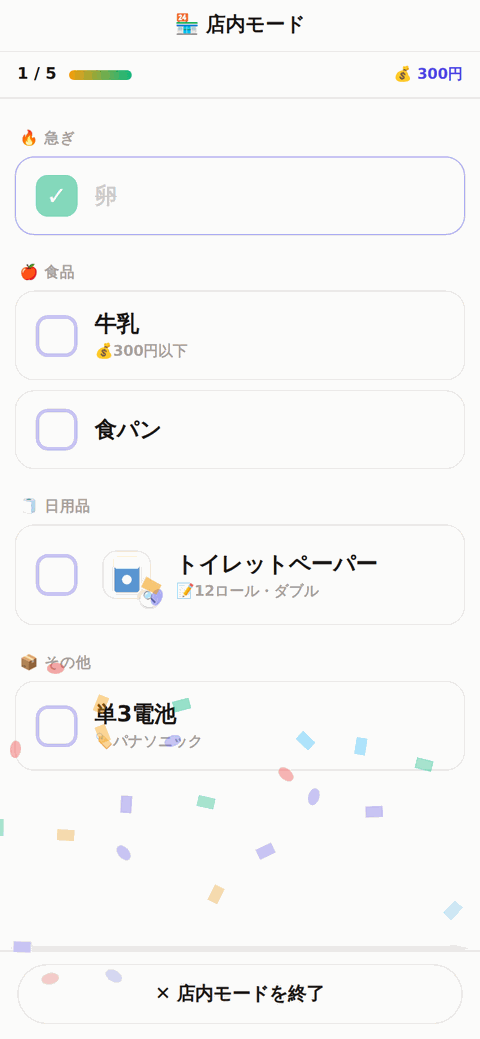
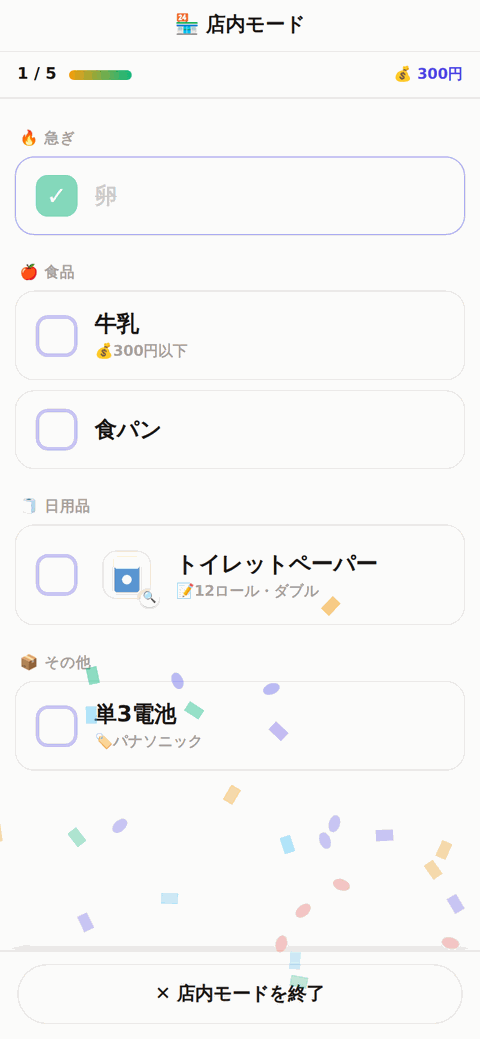
よく買うものをカード形式にし、写真を付けられるようにする
要望: 「よく買うものはカード形式にして絵をつけるプラス差し替えられるとかにしたいな」

- 行リスト（.shortcut-row）→ 写真を主役にしたカードグリッド（.shortcut-card）に
  作り直した（3列）。写真が無い項目はプレースホルダーのアイコンを出す
- 登録シート（元々あった写真欄）で選んだ写真を、今までは無視していたのを
  保存するようにした（uploadShortcutPhoto、Storage: families/{id}/shortcuts/{id}）
- 「✏ 編集」中はカードの写真をタップすると差し替えられる
  （replaceShortcutPhoto。カードごとに<input>を用意せず、共有の1つを
  使い回してどのカードが対象かをJS側の変数で覚える方式）
- openShortcutRegisterSheet() は resetSheetToAddMode() を使うようにし、
  他のモードで選んだ写真が紛れ込むのを防いだ（ついでに手書きのフィールド
  クリアの重複コードも削除）

DBルールの追加作業は不要（shortcuts は既存のサブツリー単位の書き込み権限で
photoUrl もそのままカバーされる。stocks の photoUrl と同じ扱い）。Storageの
ルールも families/{familyId}/{allPaths=**} で包括的に許可済みのため不要。

## テスト
shortcut-tab-test.mjs / shortcut-confirm-test.mjs をカード形式のセレクタに
更新し、写真の登録・編集モードでの差し替えを検証するチェックを追加。

回帰スイート20/20パス、docs-check OK、全ファイル構文チェック通過。
スクショ撮り直し（カード形式になったため）。
sw.js の CACHE を v50 に。デプロイ不要（DB/functionsの変更なし）。

diff --git a/app-requests.js b/app-requests.js
@@ -308,19 +308,12 @@ function updateShortcutVisibility() {
   wrap.style.display = state.activeTab === "requests" ? "flex" : "none";
 }
 function openShortcutRegisterSheet() {
+  // resetSheetToAddMode() で写真プレビュー等も含めて確実にクリーンな状態にしてから、
+  // ショートカット登録モードに上書きする（他のモードで選んだ写真が紛れ込むのを防ぐ）
+  resetSheetToAddMode();
   shortcutMode = true;
   editingRequestId = null;
   populateAssigneeSelect("");
-  // フィールドをクリア
-  $("new-name").value = "";
-  $("new-memo").value = "";
-  $("new-budget").value = "";
-  $("new-brand").value = "";
-  $("new-urgent").checked = false;
-  $("new-diff").value = "normal";
-  $("new-assignee").value = "";
-  setSelectedCategory(null);
-  $("new-cycle-days").value = "";
   $("new-cycle-wrap").style.display = "";
   // ショートカット登録モード UI
   document.querySelector("#sheet-add .sheet-title").textContent = "⭐ よく買うものを登録";
@@ -352,13 +345,40 @@ async function addShortcutFromSheet() {
   if (assignedTo) entry.assignedTo = assignedTo;
   if (selectedCategory) entry.category = selectedCategory;
   const ref = familyRef().child("shortcuts").push();
+  if (pendingReqPhoto) {
+    const url = await uploadShortcutPhoto(pendingReqPhoto, ref.key);
+    if (url) entry.photoUrl = url;
+  }
   if (!(await dbOp(ref.set(entry), "登録できませんでした"))) return;
   await ensureStockForShortcut(name, cycleDays);
   closeSheet();
   showToast(`⭐ 「${name}」をよく買うものに登録しました`);
 }
-// 誤操作防止: 削除×は「✏ 編集」モードの中だけに表示する
+async function uploadShortcutPhoto(file, shortcutId) {
+  showToast("写真をアップロード中...", { sound: false });
+  try {
+    return await uploadPhoto(file, `families/${state.familyId}/shortcuts/${shortcutId}`);
+  } catch (e) {
+    console.error("photo upload failed", e);
+    showToast("⚠ 写真だけアップロードできませんでした（内容は保存されます）");
+    return null;
+  }
+}
+// 編集モード中、カードの写真をタップして選び直した画像をアップロードし、
+// そのカードの photoUrl だけ差し替える（他の項目には影響しない）
+async function replaceShortcutPhoto(shortcutId, file) {
+  const s = state.shortcuts[shortcutId];
+  if (!s) return;
+  const url = await uploadShortcutPhoto(file, shortcutId);
+  if (!url) return;
+  if (!(await dbOp(familyRef().child("shortcuts/" + shortcutId + "/photoUrl").set(url), "写真を更新できませんでした"))) return;
+  showToast(`📷 「${s.name}」の写真を変更しました`, { sound: false });
+}
+// 誤操作防止: 削除×・写真の差し替えは「✏ 編集」モードの中だけに表示する
 let shortcutsEditMode = false;
+// 編集モードで写真タップ→ファイル選択の間、どのカードを対象にしたかを覚えておく
+// （カードごとに <input type=file> を用意せず、共有の1つを使い回すため）
+let shortcutPhotoTargetId = null;
 function renderShortcuts() {
   const chips = $("shortcut-chips");
   if (!chips) return;
@@ -378,18 +398,25 @@ function renderShortcuts() {
     chips.innerHTML = `<p class="shortcut-chips-empty">まだ登録がありません。＋ をタップして登録するか、リストの項目の ☆ から追加できます。</p>`;
   } else {
     // カテゴリ順（食品→日用品→その他→未分類）→ 名前順で並べ、カテゴリ見出しを付けて見やすく。
-    // 全件が未分類なら見出しは出さない。
+    // 全件が未分類なら見出しは出さない。カード形式なので、見出しごとに
+    // グリッドを区切る（グリッドをまたいだ列揃えは狙わない）。
     const sorted = entries.sort(([, a], [, b]) =>
       categoryOrder(a) - categoryOrder(b) || (a.name || "").localeCompare(b.name || "", "ja"));
     const anyCategorized = sorted.some(([, s]) => s.category && CATEGORY[s.category]);
     let html = "";
-    let curCat;
+    let curCat = null;
+    let gridOpen = false;
     sorted.forEach(([id, s]) => {
       const catKey = s.category && CATEGORY[s.category] ? s.category : "none";
       if (anyCategorized && catKey !== curCat) {
         curCat = catKey;
+        if (gridOpen) html += `</div>`;
         const hdr = catKey === "none" ? "📎 未分類" : `${CATEGORY[catKey].emoji} ${CATEGORY[catKey].label}`;
-        html += `<div class="shortcut-cat-hdr">${hdr}</div>`;
+        html += `<div class="shortcut-cat-hdr">${hdr}</div><div class="shortcut-card-grid">`;
+        gridOpen = true;
+      } else if (!gridOpen) {
+        html += `<div class="shortcut-card-grid">`;
+        gridOpen = true;
       }
       const hints = [];
       if (s.budget > 0) hints.push(`💰${Number(s.budget).toLocaleString()}円`);
@@ -398,36 +425,47 @@ function renderShortcuts() {
         const m = (state.family && state.family.members && state.family.members[s.assignedTo]);
         if (m) hints.push(`👤${escapeHtml(m.name || '')}`);
       }
-      const hintHtml = hints.length ? `<span class="shortcut-row-hints">${hints.join(' ')}</span>` : '';
+      const hintHtml = hints.length ? `<span class="shortcut-card-hints">${hints.join(' ')}</span>` : '';
       html += `
-      <button class="shortcut-row${shortcutsEditMode ? " editing" : ""}" data-sid="${id}" aria-label="${escapeHtml(s.name)}を買い物リストに追加">
-        <span class="shortcut-row-main">
-          <span class="shortcut-row-name">${s.urgent ? '🔥 ' : ''}${escapeHtml(s.name)}</span>
-          ${hintHtml}
+      <button class="shortcut-card${shortcutsEditMode ? " editing" : ""}" data-sid="${id}" aria-label="${escapeHtml(s.name)}を買い物リストに追加">
+        <span class="shortcut-card-photo"${shortcutsEditMode ? ` data-photo-edit="${id}" role="button" aria-label="${escapeHtml(s.name)}の写真を変更"` : ""}>
+          ${s.photoUrl
+            ? `<img src="${escapeHtml(s.photoUrl)}" alt="" loading="lazy" />`
+            : `<span class="shortcut-card-placeholder" aria-hidden="true">🛒</span>`}
+          ${s.urgent ? `<span class="shortcut-card-urgent" aria-hidden="true">🔥</span>` : ""}
+          ${shortcutsEditMode ? `<span class="shortcut-card-photo-hint" aria-hidden="true">📷</span>` : ""}
         </span>
-        ${shortcutsEditMode
-          ? `<span class="shortcut-row-del" data-del="${id}" role="button" aria-label="削除">×</span>`
-          : `<span class="shortcut-row-add" aria-hidden="true">＋</span>`}
+        <span class="shortcut-card-name">${escapeHtml(s.name)}</span>
+        ${hintHtml}
+        ${shortcutsEditMode ? `<span class="shortcut-card-del" data-del="${id}" role="button" aria-label="削除">×</span>` : ""}
       </button>`;
     });
+    if (gridOpen) html += `</div>`;
     chips.innerHTML = html;
   }
-  chips.querySelectorAll(".shortcut-row").forEach(row => {
-    row.addEventListener("click", (e) => {
-      if (e.target.closest(".shortcut-row-del")) return;
+  chips.querySelectorAll(".shortcut-card").forEach(card => {
+    card.addEventListener("click", (e) => {
+      if (e.target.closest(".shortcut-card-del") || e.target.closest("[data-photo-edit]")) return;
       if (shortcutsEditMode) return; // 編集中の誤タップで追加しない
-      const s = state.shortcuts[row.dataset.sid];
-      // 独立タブになって行数が増え、うっかり隣の行に触れて追加してしまいやすく
+      const s = state.shortcuts[card.dataset.sid];
+      // 独立タブになって項目数が増え、うっかり隣のカードに触れて追加してしまいやすく
       // なったため、確認をひとつ挟む（誤タップ防止）
       if (s && confirm(`「${s.name}」を買い物リストに追加しますか？`)) addFromShortcut(s);
     });
   });
-  chips.querySelectorAll(".shortcut-row-del").forEach(del => {
+  chips.querySelectorAll(".shortcut-card-del").forEach(del => {
     del.addEventListener("click", (e) => {
       e.stopPropagation();
       const s = state.shortcuts[del.dataset.del];
       if (s && !confirm(`「${s.name}」をよく買うものから削除しますか？`)) return;
       deleteShortcut(del.dataset.del);
+    });
+  });
+  chips.querySelectorAll("[data-photo-edit]").forEach(photo => {
+    photo.addEventListener("click", (e) => {
+      e.stopPropagation();
+      shortcutPhotoTargetId = photo.dataset.photoEdit;
+      $("shortcut-photo-replace-input").click();
     });
   });
 }

diff --git a/styles.css b/styles.css
@@ -403,16 +403,20 @@ button.icon-btn:hover:not(:disabled) { color: var(--c-urgent); background: var(-
 }
 .shortcut-cat-hdr:first-child { padding-top: 0; }
 
-/* 1件 = 1行。品名を大きく、ヒントは下段。行タップで追加
+/* カード形式のグリッド。写真を主役にして、タップで追加。
    色は⚡よく買うものボタンと同じアンバー系統（--c-claimed）に揃える。
    紫（--pri）はアプリ全体の主操作色なので、ここでは使わず区別する。 */
-.shortcut-row {
-  display: flex; align-items: center; gap: 10px;
-  width: 100%; text-align: left;
+.shortcut-card-grid {
+  display: grid; grid-template-columns: repeat(3, 1fr); gap: 8px;
+  margin-bottom: 14px;
+}
+.shortcut-card {
+  position: relative;
+  display: flex; flex-direction: column; align-items: stretch;
+  width: 100%; text-align: center; padding: 0; overflow: hidden;
   background: var(--c-claimed-soft); color: var(--ink);
   border: 1.5px solid var(--c-claimed);
   border-radius: var(--r-md);
-  padding: 9px 12px;
   cursor: pointer; user-select: none;
   box-shadow: none;
   transition: background .12s, box-shadow .12s, transform .1s;
@@ -420,34 +424,48 @@ button.icon-btn:hover:not(:disabled) { color: var(--c-urgent); background: var(-
 /* :not(:disabled) を付けて button:hover:not(:disabled) より詳細度を上げる
    （無いとグローバルの紫ホバーに負けて色が化ける。過去からの潜在バグで、
    今回の配色変更で紫と衝突して顕在化した） */
-.shortcut-row:hover:not(:disabled) { background: var(--c-claimed-soft); box-shadow: 0 3px 10px rgba(245,158,11,0.18); transform: none; color: var(--ink); }
-.shortcut-row:active { transform: scale(0.98); }
-.shortcut-row-main { flex: 1; min-width: 0; display: flex; flex-direction: column; gap: 2px; }
-.shortcut-row-name {
-  font-size: 14px; font-weight: 700; color: var(--ink);
-  display: flex; align-items: center; gap: 5px;
+.shortcut-card:hover:not(:disabled) { background: var(--c-claimed-soft); box-shadow: 0 3px 10px rgba(245,158,11,0.18); transform: none; color: var(--ink); }
+.shortcut-card:active { transform: scale(0.98); }
+.shortcut-card.editing { cursor: default; }
+.shortcut-card.editing:hover:not(:disabled) { background: var(--c-claimed-soft); box-shadow: none; }
+.shortcut-card-photo {
+  position: relative; width: 100%; aspect-ratio: 1 / 1;
+  background: var(--surface-2); display: flex; align-items: center; justify-content: center;
+  overflow: hidden;
+}
+.shortcut-card-photo img { width: 100%; height: 100%; object-fit: cover; display: block; }
+.shortcut-card-placeholder { font-size: 28px; opacity: .45; }
+.shortcut-card-urgent {
+  position: absolute; top: 4px; left: 4px;
+  width: 22px; height: 22px; border-radius: 50%;
+  background: rgba(255,255,255,0.85); font-size: 13px;
+  display: flex; align-items: center; justify-content: center;
+}
+/* 編集モード中だけ写真の上に重ねる「タップで差し替え」の目印 */
+.shortcut-card-photo-hint {
+  position: absolute; inset: 0;
+  background: rgba(28,25,23,0.45); color: #fff; font-size: 20px;
+  display: flex; align-items: center; justify-content: center;
+}
+.shortcut-card-name {
+  font-size: 12.5px; font-weight: 700; color: var(--ink);
+  padding: 6px 6px 2px;
   overflow: hidden; text-overflow: ellipsis; white-space: nowrap;
 }
-.shortcut-row-hints {
-  font-size: 11px; font-weight: 600; color: var(--ink-2); opacity: .75;
-  white-space: nowrap; overflow: hidden; text-overflow: ellipsis;
+.shortcut-card-hints {
+  font-size: 10.5px; font-weight: 600; color: var(--ink-2); opacity: .75;
+  padding: 0 6px 8px;
+  overflow: hidden; text-overflow: ellipsis; white-space: nowrap;
 }
-.shortcut-row-add {
-  flex-shrink: 0; width: 28px; height: 28px;
+.shortcut-card-name:last-child { padding-bottom: 8px; }
+.shortcut-card-del {
+  position: absolute; top: 4px; right: 4px; z-index: 2;
+  width: 28px; height: 28px;
   display: inline-flex; align-items: center; justify-content: center;
-  border-radius: 50%; background: var(--c-claimed); color: #fff;
-  font-size: 17px; font-weight: 800; line-height: 1;
-  box-shadow: 0 2px 6px rgba(245,158,11,0.35);
-}
-.shortcut-row-del {
-  flex-shrink: 0; width: 28px; height: 28px;
-  display: inline-flex; align-items: center; justify-content: center;
-  border: none; border-radius: 50%;
+  border: 2px solid var(--surface); border-radius: 50%;
   background: #fee2e2; color: #dc2626;
-  font-size: 16px; font-weight: 800; cursor: pointer; line-height: 1;
+  font-size: 15px; font-weight: 800; line-height: 1;
 }
-.shortcut-row.editing { cursor: default; }
-.shortcut-row.editing:hover:not(:disabled) { background: var(--c-claimed-soft); box-shadow: none; }
 #btn-shortcut-edit.open { border-color: var(--c-claimed); background: var(--c-claimed-soft); color: var(--ink); }
 
 /* ======= Bottom nav (floating) ======= */
@@ -1387,7 +1405,7 @@ button, a, [role="button"] { touch-action: manipulation; -webkit-user-select: no
   :root:not([data-theme="light"]) #btn-shortcut-edit.open { background: var(--pri-soft); }
   :root:not([data-theme="light"]) .check-detail { background: var(--surface-2); }
   :root:not([data-theme="light"]) .rc-star-btn.starred { background: #3a2f14; border-color: #7a6420; }
-  :root:not([data-theme="light"]) .shortcut-row-del { background: #40232a; color: #fca5a5; }
+  :root:not([data-theme="light"]) .shortcut-card-del { background: #40232a; color: #fca5a5; }
 }
 :root[data-theme="dark"] .topbar { background: rgba(20,19,26,0.92); }
 :root[data-theme="dark"] .cat-chips .cat-chip.selected,
@@ -1398,7 +1416,7 @@ button, a, [role="button"] { touch-action: manipulation; -webkit-user-select: no
 :root[data-theme="dark"] #btn-shortcut-edit.open { background: var(--pri-soft); }
 :root[data-theme="dark"] .check-detail { background: var(--surface-2); }
 :root[data-theme="dark"] .rc-star-btn.starred { background: #3a2f14; border-color: #7a6420; }
-:root[data-theme="dark"] .shortcut-row-del { background: #40232a; color: #fca5a5; }
+:root[data-theme="dark"] .shortcut-card-del { background: #40232a; color: #fca5a5; }
 
 /* ======= 完了時の紙吹雪 ======= */
 .confetti-wrap { position: fixed; inset: 0; pointer-events: none; z-index: 60; overflow: hidden; }

diff --git a/index.html b/index.html
@@ -217,8 +217,12 @@
       <!-- Tab: Shortcuts -->
       <section id="tab-shortcuts" class="tab">
         <div class="section-header"><h2>⚡ よく買うもの</h2></div>
+        <p class="muted" style="font-size:11px;margin:0 0 10px;">「✏ 編集」中は写真をタップすると差し替えられます。</p>
         <div id="shortcut-chips" class="shortcut-chips"></div>
         <button id="btn-shortcut-edit" class="section-toggle-btn" style="display:none;">✏ 編集 <span class="toggle-chevron">▾</span></button>
+        <!-- 編集モード中、カードの写真をタップすると発火する共有のファイル入力
+             （カードごとに用意せず、どのカードを対象にするかはJS側の変数で覚える） -->
+        <input type="file" id="shortcut-photo-replace-input" accept="image/*" style="display:none;" />
       </section>
 
       <!-- Tab: Stock -->

diff --git a/app-init.js b/app-init.js
@@ -246,6 +246,14 @@ function wireGlobalEvents() {
     pendingReqPhoto = "";           // 「外す」の意思表示
     setReqPhotoPreview("");
   });
+  // よく買うもの: 編集モードでカードの写真をタップしたときの差し替え
+  $("shortcut-photo-replace-input").addEventListener("change", (e) => {
+    const file = e.target.files[0];
+    e.target.value = ""; // 同じファイルを続けて選べるようにリセット
+    if (!file || !shortcutPhotoTargetId) return;
+    replaceShortcutPhoto(shortcutPhotoTargetId, file);
+    shortcutPhotoTargetId = null;
+  });
   $("btn-photo-viewer-close").addEventListener("click", closePhotoViewer);
   $("photo-viewer").addEventListener("click", (e) => {
     if (e.target === $("photo-viewer")) closePhotoViewer();

diff --git a/sw.js b/sw.js
@@ -3,7 +3,7 @@
 // ・Firebase SDK（gstatic.com）や設定・アイコンなどの静的アセットはプリキャッシュし、
 //   キャッシュ優先で返す（圏外でもアプリが起動できるように）。
 // アプリ本体 = index.html（ルート）、プロジェクトハブ = hub.html。
-const CACHE = "otsukai-v49";
+const CACHE = "otsukai-v50";
 
 const PRECACHE = [
   "./index.html",

diff --git a/docs/features.md b/docs/features.md
@@ -173,15 +173,19 @@
 
 <img src="screenshots/08-shortcuts.png" width="320" alt="よく買うもの">
 
-下部タブの「よく買う」から開きます。定番品を登録しておくと、**行をタップして確認するだけでリストに追加**
-できます（独立タブになって行数が増え、隣の行に触れてしまいやすいため、確認をひとつ挟みます）。
-カテゴリごとに並びます。
+下部タブの「よく買う」から開きます。定番品を登録しておくと、**カードをタップして確認するだけで
+リストに追加**できます（独立タブになって項目数が増え、隣のカードに触れてしまいやすいため、
+確認をひとつ挟みます）。カテゴリごとに並びます。
+
+**カード形式で、写真を付けられます。** 写真があると同じ商品でも型番違い・詰め替え用などを
+一目で見分けられます。写真が無い項目はプレースホルダーのアイコンが出ます。
 
 **登録の仕方は2つ**
-1. 「よく買う」タブを開いた状態で **＋（画面下部中央）**から入力する（他のタブと同じ導線）
+1. 「よく買う」タブを開いた状態で **＋（画面下部中央）**から入力する（他のタブと同じ導線。写真も付けられます）
 2. **買い物リストや履歴のカードにある ☆ をタップ**（メモ・予算・カテゴリごと登録されます。登録済みは⭐に変わります）
 
-削除は「✏ 編集」を押したときだけ出ます（誤操作防止）。
+削除・写真の差し替えは「✏ 編集」を押したときだけできます（誤操作防止）。編集モード中は
+カードの写真をタップすると新しい写真に差し替えられます。
 
 ### 📦 ストックと自動で連動します
 

diff --git a/docs/rules/workflow.md b/docs/rules/workflow.md
@@ -46,8 +46,8 @@ node tests/regression/bughunt.mjs # 1本だけ
 | `circle-toggle-test` / `bought-test` | ◯ タップの宣言・取り消し・完了 |
 | `history-close-test` / `hist-footer-test` | 履歴シートが閉じる・実タッチでスクロールする |
 | `store-footer-test` | 店内モードの終了ボタン位置 |
-| `shortcut-tab-test` | ⚡よく買うものタブ（下部ナビ）・FABからの登録・編集モード・大量件数のスクロール |
-| `shortcut-confirm-test` | 行タップ時の確認ダイアログ（品名の表示・キャンセルで未追加） |
+| `shortcut-tab-test` | ⚡よく買うものタブ（下部ナビ）・カード形式・写真の登録と編集モードでの差し替え・大量件数のスクロール |
+| `shortcut-confirm-test` | カードタップ時の確認ダイアログ（品名の表示・キャンセルで未追加） |
 | `tab-swipe-test` | ページ内タブの左右スワイプ切替・端での折り返し無し・シート/店内モード中の抑止・下部ナビの背景が指に追従して滑る／閾値未満なら元へ戻る |
 | `update-test` / `update-banner-test` | 更新バナー・強制更新・強制ログアウト・引っ張って更新 |
 | `photo-test` | 📷 写真の添付・表示・拡大・外す・店内モードのサムネイル |

diff --git a/docs/rules/deploy.md b/docs/rules/deploy.md
@@ -36,15 +36,17 @@
 
 ### Storage のルール
 
-写真は Firebase Storage に置く。パスは2つ:
+写真は Firebase Storage に置く。パスは3つ:
 
 | 用途 | パス |
 |---|---|
 | ストックの写真 | `families/{familyId}/stocks/{stockId}` |
-| **おつかいの写真** | `families/{familyId}/requests/{requestId}` |
+| おつかいの写真 | `families/{familyId}/requests/{requestId}` |
+| よく買うものの写真 | `families/{familyId}/shortcuts/{shortcutId}` |
 
 Storage のルールも Console 管理（リポジトリに `storage.rules` は置いていない）。
-**`families/{familyId}/{allPaths=**}` でまとめて許可**しておくと、以後パスを増やしても追加作業が要らない。
+**`families/{familyId}/{allPaths=**}` でまとめて許可**しているため、上表のようにパスが
+増えても追加作業は不要（既に済んでいるルールでそのまま動く）。
 
 Firebase Console → Storage → ルール に、そのまま貼れる内容:
 
